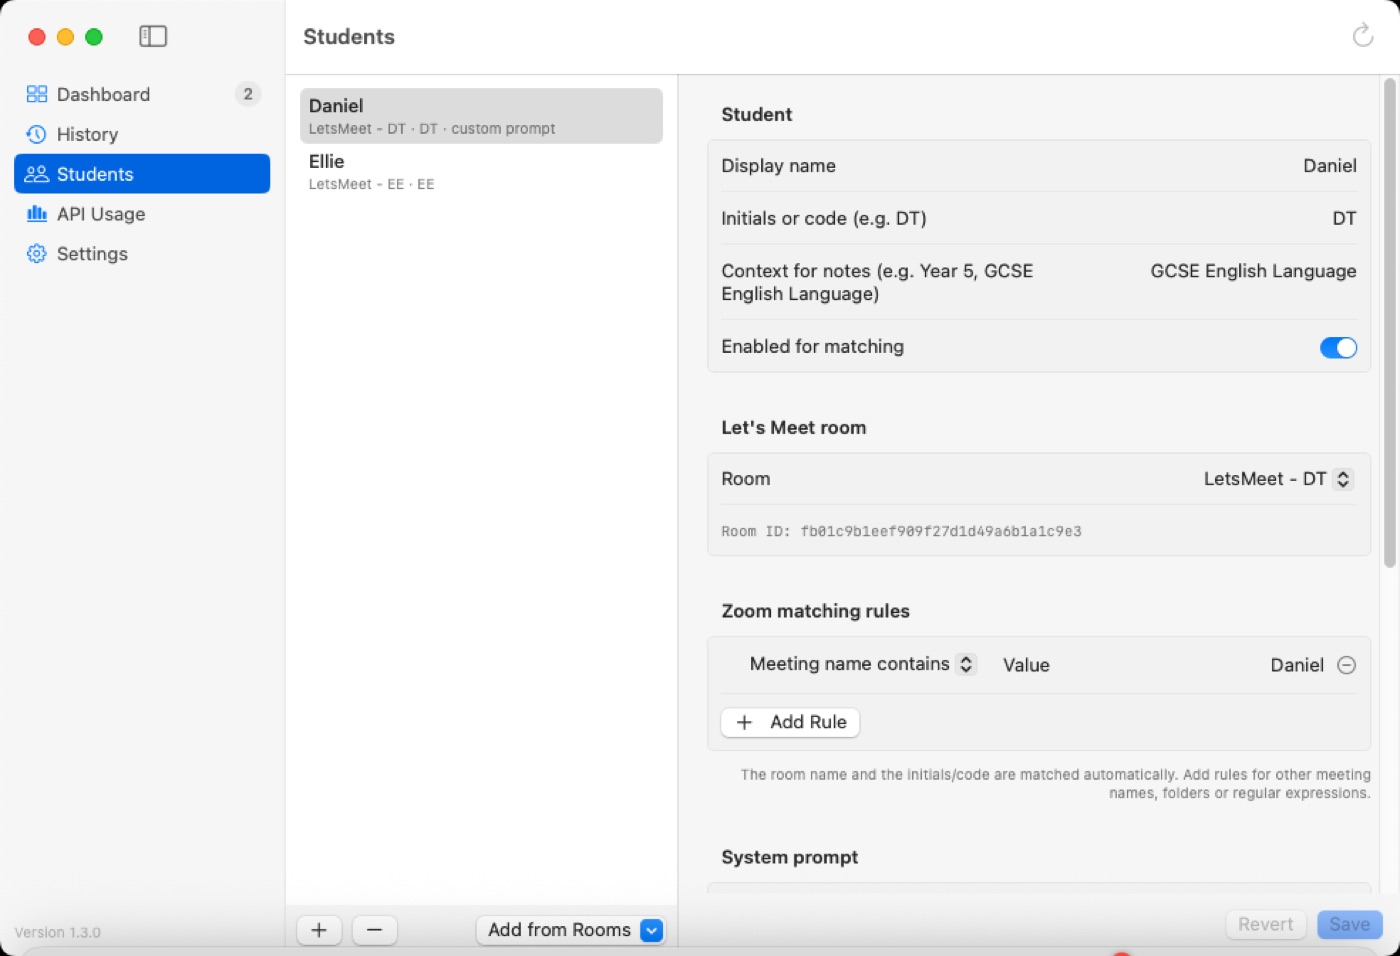
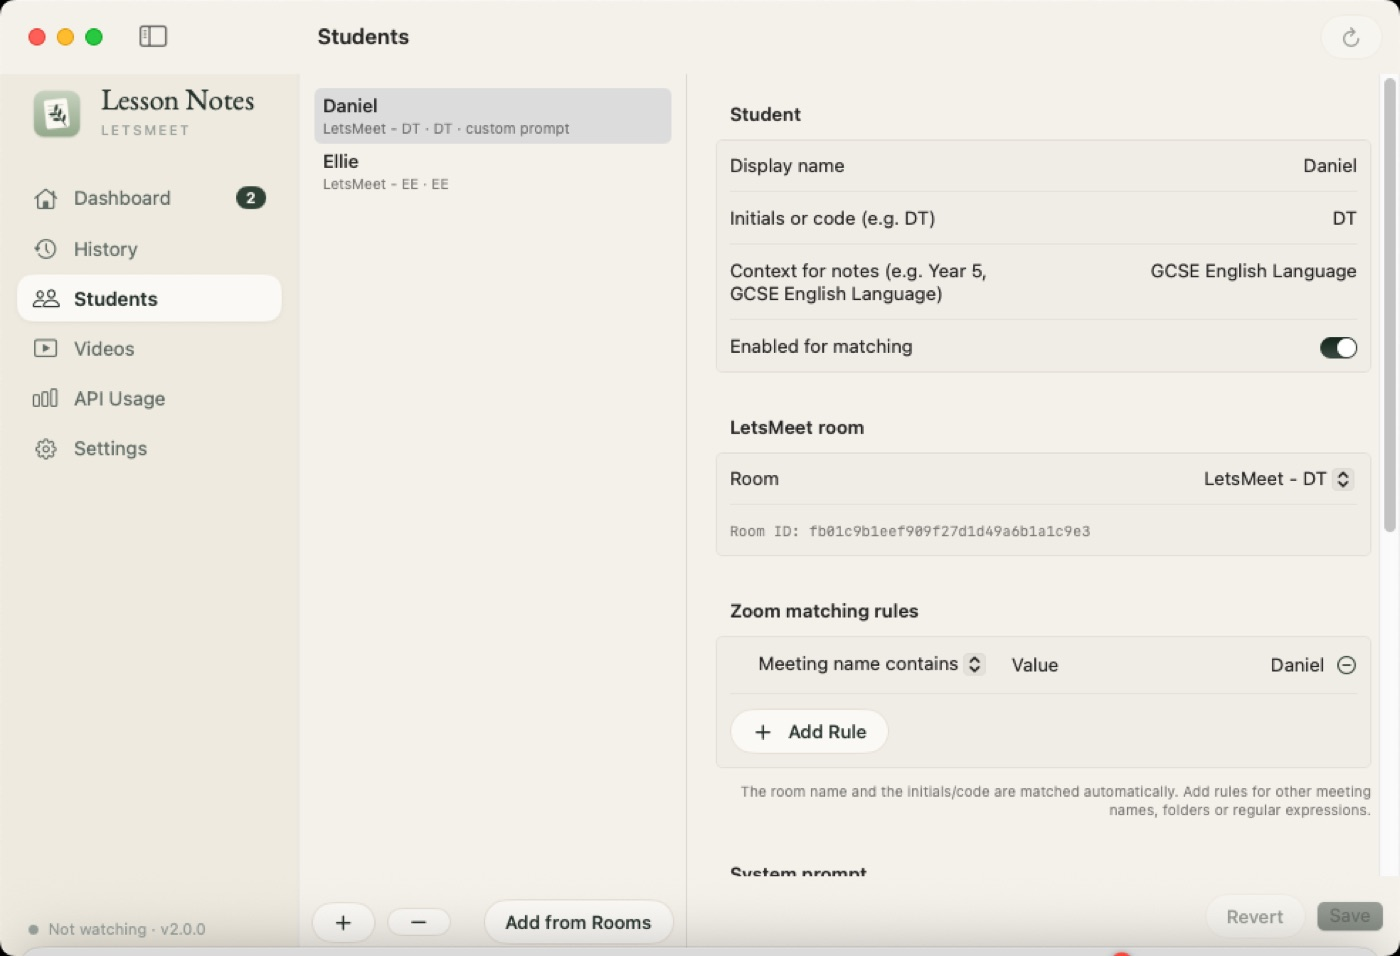
README for 2.0: new screenshots, Confirm walkthrough, version history links
Claude-Session: https://claude.ai/code/session_01DDJiVfZSELnVqu4NwvJG18

diff --git a/README.md b/README.md
@@ -1,6 +1,6 @@
 <div align="center">
 
-<img src="docs/images/icon.png" width="128" alt="Lesson Notes app icon">
+<img src="docs/images/icon.png" width="128" alt="Lesson Notes app icon: a page with a sprig">
 
 # LetsMeet Lesson Notes
 
@@ -9,15 +9,17 @@
 A native macOS menu-bar app for George Hall Tuition. It finds new Zoom recordings, transcribes them on-device,
 writes structured revision notes with OpenAI and sends them to LetsMeet, where they wait for approval.
 
-[![Download for Mac](https://img.shields.io/badge/Download-macOS%20DMG-0A84FF?style=for-the-badge&logo=apple&logoColor=white)](../../releases)
+[![Download for Mac](https://img.shields.io/badge/Download-macOS%20DMG-2F4135?style=for-the-badge&logo=apple&logoColor=white)](../../releases)
 &nbsp;
-![macOS 14+](https://img.shields.io/badge/macOS-14%20Sonoma%2B-555?style=for-the-badge)
-![Apple Silicon](https://img.shields.io/badge/Apple%20Silicon-native-555?style=for-the-badge)
-![Swift](https://img.shields.io/badge/Swift-SwiftUI-F05138?style=for-the-badge&logo=swift&logoColor=white)
+![Version 2.0](https://img.shields.io/badge/version-2.0-9FB096?style=for-the-badge)
+![macOS 14+](https://img.shields.io/badge/macOS-14%20Sonoma%2B-5F6B64?style=for-the-badge)
+![Apple Silicon](https://img.shields.io/badge/Apple%20Silicon-native-5F6B64?style=for-the-badge)
 
 <br>
 
-<img src="docs/images/dashboard-light.jpg" width="900" alt="Dashboard showing new recordings to review and lessons being processed">
+<img src="docs/images/dashboard-light.jpg" width="900" alt="Dashboard: greeting, a panel of new lessons to confirm, counts for transcribing, writing notes and sent today, and the lessons in progress">
+
+<sub>New in 2.0: a calmer, botanical look · <a href="CHANGELOG.md">version history</a> · <a href="docs/versions/v1.10/README.md">how 1.10 looked</a></sub>
 
 </div>
 
@@ -26,10 +28,12 @@ writes structured revision notes with OpenAI and sends them to LetsMeet, where t
 ## Contents
 
 - [How it works](#how-it-works)
+- [Confirming a lesson](#confirming-a-lesson)
 - [Features](#features)
 - [Screenshots](#screenshots)
 - [Install](#install)
 - [Privacy & safeguarding](#privacy--safeguarding)
+- [Version history](#version-history)
 - [For developers](#for-developers)
 
 ## How it works
@@ -47,6 +51,21 @@ flowchart LR
 
 Once you press **Confirm**, everything else is automatic — extraction, transcription, notes, upload and status tracking.
 Transcription happens on the Mac; lesson videos go only to your own media server, attached to the approved note.
+
+## Confirming a lesson
+
+When Zoom finishes converting, a notification offers **Review**. The Confirm screen opens full-window:
+
+<table>
+<tr>
+<td width="50%"><img src="docs/images/confirm-light.jpg" alt="Confirm screen before any files are added"><br><sub><b>1 · Check who and when</b> — pupil, date and time sit under the title; the recordings are listed in order. Drop lesson files on the right.</sub></td>
+<td width="50%"><img src="docs/images/confirm-files.jpg" alt="Confirm screen with lesson files added as cards"><br><sub><b>2 · Add lesson files</b> — for each file, say what it is (colour-coded), and whether the AI reads it and the pupil gets it.</sub></td>
+</tr>
+<tr>
+<td><img src="docs/images/confirm-mp4.jpg" alt="Confirm screen with an extra MP4 added as Part 3"><br><sub><b>3 · Add another recording</b> — drop an MP4 (or M4A) onto the recordings, or choose one. It joins as the next part; drag to reorder, and pick Combine or Separate.</sub></td>
+<td valign="middle"><b>4 · Confirm & process</b><br><br>The line at the bottom sums it up (or says what is still needed). Press <b>Confirm & process</b> and the lesson slides onto the Dashboard: transcribed on the Mac, notes written, sent to LetsMeet to wait for your approval. A notification tells you when it's there.</td>
+</tr>
+</table>
 
 ## Features
 
@@ -120,19 +139,16 @@ Transcription happens on the Mac; lesson videos go only to your own media server
 
 <table>
 <tr>
-<td width="50%"><img src="docs/images/review-light.jpg" alt="Confirm lesson sheet"><br><sub><b>Confirm a lesson</b> — suggested pupil, date, recordings with previews and processing mode</sub></td>
-<td width="50%"><img src="docs/images/regenerate-light.jpg" alt="Regenerate notes comparison"><br><sub><b>Regenerate & compare</b> — new version side by side, changes highlighted</sub></td>
+<td width="50%"><img src="docs/images/history-light.jpg" alt="History"><br><sub><b>History</b> — every lesson with its website status; search by pupil, date, title or transcript</sub></td>
+<td width="50%"><img src="docs/images/videos-light.jpg" alt="Lesson videos"><br><sub><b>Lesson videos</b> — media-server storage, video counts, bandwidth and uploads</sub></td>
 </tr>
 <tr>
-<td><img src="docs/images/history-light.jpg" alt="History"><br><sub><b>History</b> — searchable by pupil, date, title or transcript, with website status</sub></td>
 <td><img src="docs/images/students-light.jpg" alt="Students"><br><sub><b>Students</b> — room mapping, matching rules and per-pupil prompts</sub></td>
+<td><img src="docs/images/usage-light.jpg" alt="API usage"><br><sub><b>API usage</b> — today's tokens against the free allowance, estimated spend</sub></td>
 </tr>
 <tr>
-<td><img src="docs/images/settings-light.jpg" alt="OpenAI settings"><br><sub><b>OpenAI</b> — live model list, Test Model and reasoning effort</sub></td>
+<td><img src="docs/images/settings-light.jpg" alt="Settings"><br><sub><b>Settings</b> — OpenAI model list, Test Model, transcription and videos</sub></td>
 <td><img src="docs/images/dashboard-dark.jpg" alt="Dark mode"><br><sub><b>Dark mode</b> — follows your Mac's appearance</sub></td>
-</tr>
-<tr>
-<td colspan="2" align="center"><img src="docs/images/usage-light.jpg" width="70%" alt="API usage"><br><sub><b>API Usage</b> — today's tokens against the complimentary allowance, reset countdown, estimated spend and the lessons using the most</sub></td>
 </tr>
 </table>
 
@@ -163,6 +179,11 @@ Transcription happens on the Mac; lesson videos go only to your own media server
 | 📊 Analytics | None. Transcripts, notes and keys are never logged. |
 
 Local transcripts follow your retention setting (forever, 1 year, 90 or 30 days) and can be deleted from History at any time.
+
+## Version history
+
+Every version is listed in **[CHANGELOG.md](CHANGELOG.md)** with a DMG download, so an older version can always be
+reinstalled (your data is kept). The 1.x look is archived in [docs/versions/v1.10](docs/versions/v1.10/README.md).
 
 ## For developers
 
